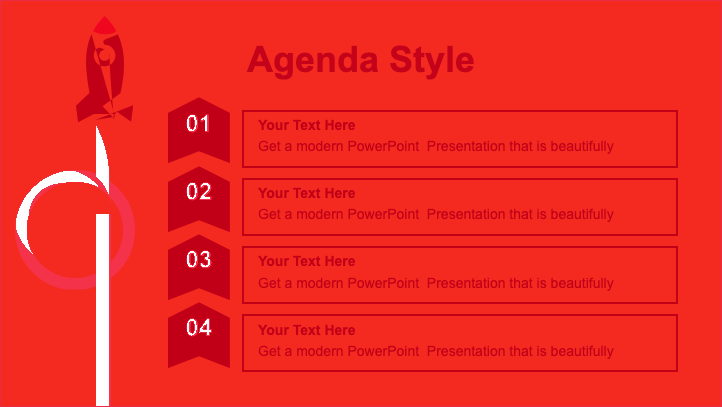
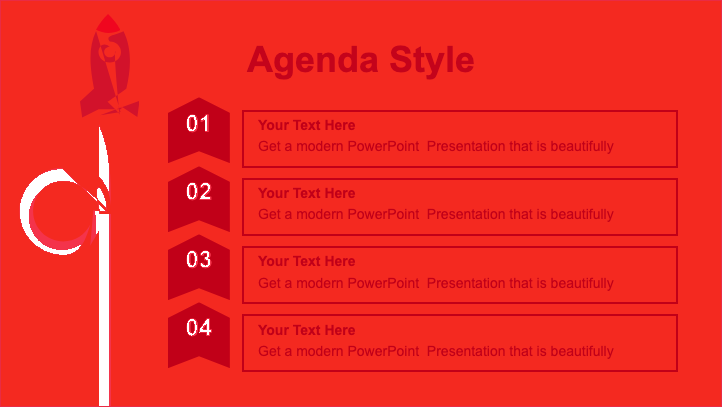
Make the yellow agenda slide less synthetic in the fidelity loop
The sample5 agenda slide stayed stuck because the preview treated its left cluster as generic shapes. This stage keeps the renderer on the existing architecture but adds a narrow, name-scoped geometry/render-fallback pass for the real agenda-cluster parts so the ring and rocket sit closer to the exported slide without disturbing unrelated samples.

Constraint: Keep the fix localized to the known sample-shape names until there is parser-grounded evidence for a broader rule
Constraint: Must not regress sample1 industrial slide or sample5 cover slide while improving sample5 agenda fidelity
Rejected: Full synthetic left-cluster overlay | repeated regressions and no reliable lift
Rejected: Broad yellow-theme style tightening | hurt multiple slides without fixing the left illustration bottleneck
Confidence: medium
Scope-risk: narrow
Directive: Treat these agenda-shape adjustments as corpus-specific stopgaps; replace them with parser-grounded semantics if a generalizable shape interpretation path is found
Tested: npm run typecheck; npm run build --workspace @ooxml/example-basic; npm run quality:ppt-sample-screenshots
Not-tested: Full-repo lint/test/build/bench wave after this intermediate visual-fidelity checkpoint

Changed region(s): [[0.0, 0.0295, 0.2133, 1.0]]

diff --git a/examples/basic/src/main.ts b/examples/basic/src/main.ts
@@ -696,6 +696,8 @@ function enhancePresentationPreview(): void {
   const darkBackground = backgroundColor ? isDarkColor(backgroundColor) : true;
   const yellowTheme = !darkBackground && ['#FFCE29', '#F2BF27'].includes((backgroundColor ?? '').toUpperCase());
   const industrialTheme = titleLike && darkBackground && shapes.some((shape) => Boolean(shape.dataset.fillGradientStops) && Number(shape.dataset.cx ?? 0) / cx > 0.35);
+  const slideTitleText = presentation.querySelector('header h2')?.textContent?.trim() ?? '';
+  const yellowAgendaTheme = yellowTheme && !titleLike && /Agenda Style/i.test(slideTitleText);
   const circleBadgeShape = titleLike
     ? shapes.find((shape) => {
         if (shape.dataset.shapeType !== 'ellipse' || (shape.querySelector('p')?.textContent?.trim())) {
@@ -765,6 +767,7 @@ function enhancePresentationPreview(): void {
     const rotationDeg = Number(shape.dataset.rotationDeg ?? 0);
     const flipH = shape.dataset.flipH === 'true';
     const flipV = shape.dataset.flipV === 'true';
+    const isYellowAgendaShape = yellowAgendaTheme && ['Block Arc 14', 'Rectangle 18', 'Rectangle 19', 'Freeform 13', 'Freeform 23'].includes(name);
 
     shape.classList.remove('kind-title', 'kind-subtitle', 'kind-footer', 'kind-body', 'is-card', 'is-heading', 'is-media', 'is-image-frame', 'is-decorative');
     shape.style.removeProperty('--accent');
@@ -841,6 +844,30 @@ function enhancePresentationPreview(): void {
     const content = shape.querySelector('.ooxml-pptx-shape-content') as HTMLElement | null;
     if (!text) {
       shape.classList.add('is-decorative');
+      if (isYellowAgendaShape) {
+        if (name.includes('Block Arc')) {
+          shape.style.left = `${(x / cx) * 100 + 0.6}%`;
+          shape.style.top = `${(y / cy) * 100 - 0.7}%`;
+          shape.style.width = `${(width / cx) * 100 * 0.92}%`;
+          shape.style.height = `${(height / cy) * 100 * 0.92}%`;
+        } else if (name.includes('Rectangle 18')) {
+          shape.style.left = `${(x / cx) * 100 + 0.35}%`;
+          shape.style.width = `${(width / cx) * 100 * 0.8}%`;
+        } else if (name.includes('Rectangle 19')) {
+          shape.style.left = `${(x / cx) * 100 + 0.35}%`;
+          shape.style.width = `${(width / cx) * 100 * 0.8}%`;
+        } else if (name.includes('Freeform 13')) {
+          shape.style.left = `${(x / cx) * 100 + 0.55}%`;
+          shape.style.top = `${(y / cy) * 100 - 0.75}%`;
+          shape.style.width = `${(width / cx) * 100 * 1.04}%`;
+          shape.style.height = `${(height / cy) * 100 * 0.98}%`;
+        } else if (name.includes('Freeform 23')) {
+          shape.style.left = `${(x / cx) * 100 + 0.45}%`;
+          shape.style.top = `${(y / cy) * 100 - 0.55}%`;
+          shape.style.width = `${(width / cx) * 100 * 1.04}%`;
+          shape.style.height = `${(height / cy) * 100 * 1.04}%`;
+        }
+      }
       if (industrialTheme && fillColor === '#FFFFFF' && fillOpacity <= 0.15 && (width / cx) > 0.9 && (height / cy) > 0.5) {
         shape.style.background = 'transparent';
         shape.style.border = 'none';
@@ -865,7 +892,7 @@ function enhancePresentationPreview(): void {
         }
         continue;
       }
-      if (yellowTheme && !titleLike && name.includes('Block Arc')) {
+      if (yellowTheme && !titleLike && name.includes('Block Arc') && !yellowAgendaTheme) {
         shape.style.background = 'transparent';
         shape.style.border = '12px solid #FFFFFF';
         shape.style.borderRadius = '999px';
@@ -884,6 +911,7 @@ function enhancePresentationPreview(): void {
         continue;
       }
       const pathCommands = shape.dataset.pathCommands;
+      const renderFillColor = isYellowAgendaShape && name.includes('Freeform 13') ? '#56595e' : fillColor;
       const lightTitlePathCandidate = titleLike
         && !darkBackground
         && (fillGradientStops.length > 0 || (fillColor !== undefined && fillColor !== '#FFFFFF'));
@@ -898,7 +926,7 @@ function enhancePresentationPreview(): void {
       const shouldRenderPath = Boolean(
         pathCommands
         && (lightTitlePathCandidate || rocketCoverPathCandidate || industrialPathCandidate || (yellowTheme && (x / cx) < 0.35))
-        && (fillColor || fillGradientStops.length > 0)
+        && (renderFillColor || fillGradientStops.length > 0)
         && shape.dataset.shapeType === 'custom'
       );
       if (titleLike && yellowTheme && fillColor === '#FFFFFF' && (width / cx) > 0.35 && (height / cy) > 0.35) {
@@ -906,7 +934,7 @@ function enhancePresentationPreview(): void {
         shape.style.borderRadius = '36% 36% 0 0 / 24% 24% 0 0';
       }
       if (shouldRenderPath) {
-        const svgMarkup = buildDecorativeSvg(pathCommands ?? '', fillColor, lineColor, lineWidth, fillGradientStops, fillGradientAngle, fillGradientStops.length > 0);
+        const svgMarkup = buildDecorativeSvg(pathCommands ?? '', renderFillColor, lineColor, lineWidth, fillGradientStops, fillGradientAngle, fillGradientStops.length > 0);
         if (svgMarkup) {
           shape.style.background = 'transparent';
           shape.style.border = 'none';
